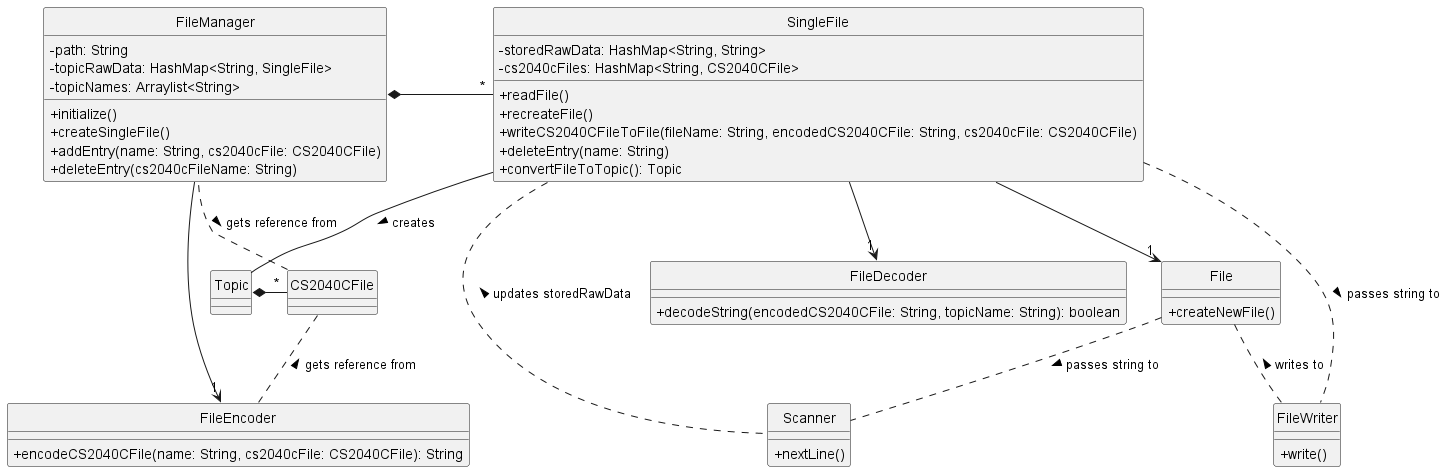
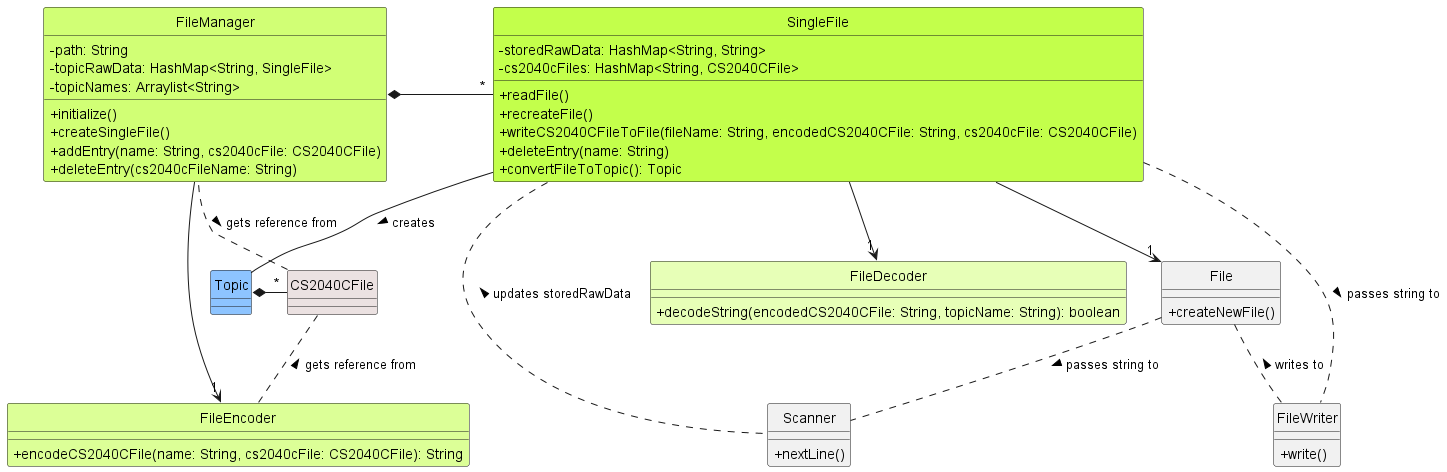
Add: style for puml diagrams

diff --git a/src/main/java/seedu/clialgo/storage/SingleFile.java b/src/main/java/seedu/clialgo/storage/SingleFile.java
@@ -100,8 +100,8 @@ public class SingleFile {
         try {
             FileWriter fileWriter = new FileWriter(file, false);
             BufferedWriter bufferedWriter = new BufferedWriter(fileWriter);
-            for (String s : storedRawData.values()) {
-                bufferedWriter.write(s);
+            for (String string : storedRawData.values()) {
+                bufferedWriter.write(string);
                 bufferedWriter.newLine();
             }
             bufferedWriter.close();
